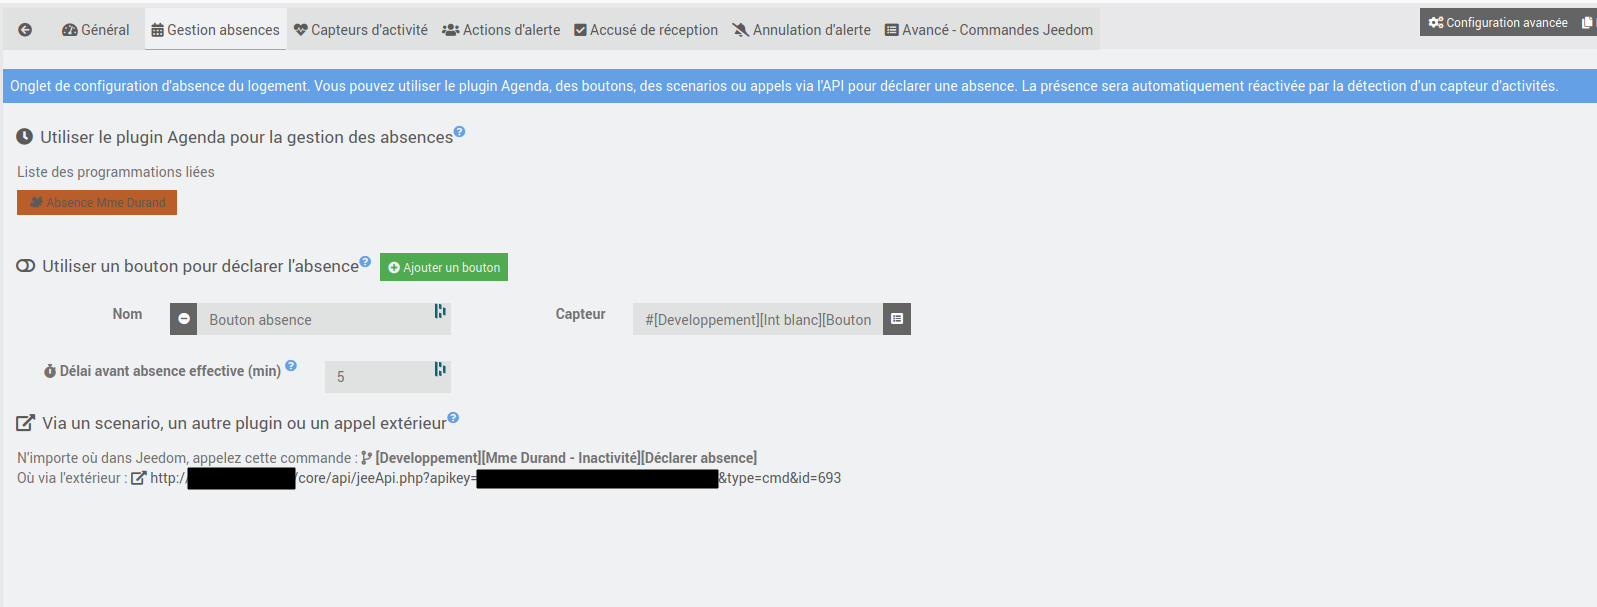
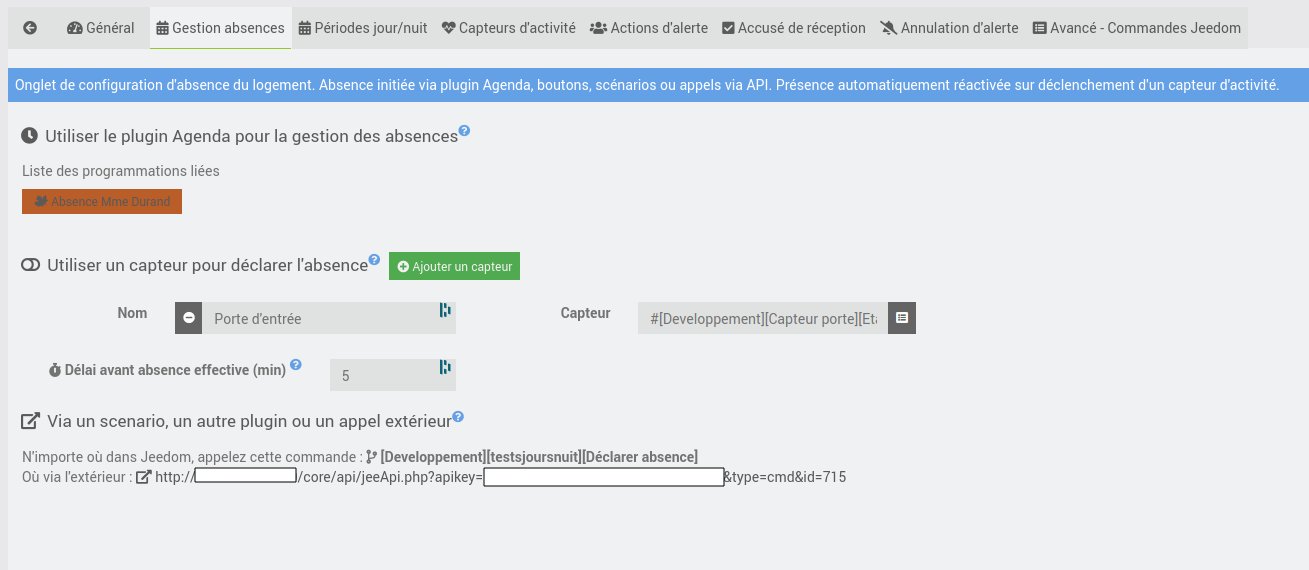
relecture, debug et update doc

diff --git a/desktop/js/seniorcareinactivity.js b/desktop/js/seniorcareinactivity.js
@@ -45,16 +45,14 @@ $("body").off('click','.bt_removeAction').on('click','.bt_removeAction',function
 });
 
 // permet d'afficher la liste des cmd Jeedom pour choisir sa commande de type "info" (pas les actions donc)
-// TODO ce morceau de code est un copier/coller du plugin thermostat, a voir s'il n'y a pas des trucs inutiles là-dedans
 $("body").off('click', '.listCmdInfoWindow').on('click', '.listCmdInfoWindow',function () {
   var el = $(this).closest('.form-group').find('.expressionAttr[data-l1key=cmd]');
-  jeedom.cmd.getSelectModal({cmd: {type: 'info', subtype: 'binary'}}, function (result) {
+  jeedom.cmd.getSelectModal({cmd: {type: 'info', subtype: 'binary'}}, function (result) { // pourquoi subtype binary ? (affiche bien tout...)
     el.value(result.human);
   });
 });
 
-// affiche les cmd jeedom de type action
-// TODO ce morceau de code est un copier/coller du plugin thermostat, a voir s'il n'y a pas des trucs inutiles là-dedans
+// permet d'afficher la liste des cmd Jeedom pour choisir sa commande de type "action"
 $("body").off('click','.listCmdAction').on('click','.listCmdAction', function () {
   var type = $(this).attr('data-type');
   var el = $(this).closest('.' + type).find('.expressionAttr[data-l1key=cmd]');
@@ -80,7 +78,7 @@ $("body").undelegate(".listAction", 'click').delegate(".listAction", 'click', fu
   });
 });
 
-// TODO ce morceau de code est un copier/coller du plugin thermostat, a voir s'il n'y a pas des trucs inutiles là-edans
+// TODO ce morceau de code est un copier/coller du plugin thermostat : je vois pas à quoi il sert (tout semble ok sans...) TODO
 $('body').off('focusout','.cmdAction.expressionAttr[data-l1key=cmd]').on('focusout','.cmdAction.expressionAttr[data-l1key=cmd]',function (event) {
   var type = $(this).attr('data-type');
   var expression = $(this).closest('.' + type).getValues('.expressionAttr');

diff --git a/core/class/seniorcareinactivity.class.php b/core/class/seniorcareinactivity.class.php
@@ -35,7 +35,7 @@ Toutes les minutes (cron jeedom) => on évalue si on est present et si les timer
 Les infos en cache (effacées ni lors de la sauvegarde, ni au reboot, ni update jeedom, mais mal lues au 1er cron après reboot...) :
 
 * $eqLogic->getCache('presence')); => savoir si la personne est présente ou absente. Sera a nouveau déclarée présente au 1ere capteur d'activité déclenché
-* $eqLogic->getCache('sensor_' . $_option['event_id']) => la valeur précédente de chaque capteur d'activité, pour ne déclencher que sur un changement d'état et non une répétition. Donc au reboot on sait plus, on déclenche : OK
+* $eqLogic->getCache('sensor_' . $_option['event_id']) => la valeur précédente de chaque capteur d'activité, pour ne déclencher que sur un changement d'état et non une répétition.
 * $eqLogic->setCache('nextLifeSignAlertTimestamp', time() + $lifeSignDetectionDelay); => le timestamp auquel il faut déclencher l'alerte
 * $eqLogic->getCache('alertLifeSignState'); => l'état actuel de l'alerte (déjà déclenchée ou non)
 * $eqLogic->setCache('execAction_'.$action['action_label'], 1); => l'état d'execution de chacune des actions d'alertes ayant un label (celles sans label sont mémorisées aussi mais s'écrasent entre elles et elles ne sont jamais lues, donc on s'en fout), pour conditionner l'exécution des actions d'AR et d'annulation
@@ -56,8 +56,8 @@ class seniorcareinactivity extends eqLogic {
 
       $seniorcareinactivity = seniorcareinactivity::byId($_options['eqLogic_id']); // on prend l'eqLogic du cron qui nous a appelé
 
-      log::add('seniorcareinactivity', 'info', $seniorcareinactivity->getHumanName() . ' - ABSENCE (par activation d\' un capteur AVEC timer)');
       $seniorcareinactivity->setCache('presence', 0); //on declare l'absence dans le cache. C'est le cron1 de jeedom qui gere le reste
+      log::add('seniorcareinactivity', 'info', $seniorcareinactivity->getHumanName() . ' - ABSENCE (par activation d\' un capteur AVEC timer)');
       log::add('seniorcareinactivity', 'debug', $seniorcareinactivity->getHumanName() . ' - cache *presence* : ' . $seniorcareinactivity->getCache('presence'));
 
       if ($seniorcareinactivity->getCache('alertLifeSignState')){ // si on était en phase d'alerte, on lance les actions d'annulation
@@ -73,7 +73,6 @@ class seniorcareinactivity extends eqLogic {
       log::add('seniorcareinactivity', 'info', $seniorcareinactivity->getHumanName() . ' - Exécution (différée) de l\'action d\'alerte : ' . $_options['action']['cmd'] . ' - Label : ' . $_options['action']['action_label']);
     }
 
-
     public static function sensorAbsence($_option) { // fct appelée par le listener des boutons d'absence, n'importe quel bouton arrive ici
 
       $seniorcareinactivity = seniorcareinactivity::byId($_option['seniorcareinactivity_id']); // on prend l'eqLogic du trigger qui nous a appelé
@@ -87,30 +86,30 @@ class seniorcareinactivity extends eqLogic {
         $seniorcareinactivity->setCache('presence', 0); //on declare dés maintenant l'absence dans le cache. Elle sera repetée par le cron qu'on met en place ci-dessous. Permet d'éviter de lancer une alerte entre le moment où on a lancé le bouton d'absence et l'absence effective (ne devrait pas arriver vu qu'on bouge de toute facon, mais bon...)
 
         $cron = cron::byClassAndFunction('seniorcareinactivity', 'lifeSignAbsenceDelayed', array('eqLogic_id' => intval($seniorcareinactivity->getId()))); // cherche le cron qui correspond exactement à "ce plugin, cette fonction et cette personne (on ne veut)
-        // lors d'une sauvegarde ou suppression de l'eqLogic, si des crons sont existants, ils seront supprimés
+        // lors de la suppression de l'eqLogic, si un cron est existant, il sera supprimé
 
-        //TODO : si on reappui sur le bouton, ca decalle pas le cron... comportement voulu ou il faudrait le remove et re-set ?
-
-        if (!is_object($cron)) { // pas de cron trouvé, on le cree
-
-            $cron = new cron();
-            $cron->setClass('seniorcareinactivity');
-            $cron->setFunction('lifeSignAbsenceDelayed');
-
-            $options['eqLogic_id'] = intval($seniorcareinactivity->getId());
-            $cron->setOption($options);
-
-            $cron->setEnable(1);
-            $cron->setTimeout(5); //minutes
-
-            $delai = strtotime(date('Y-m-d H:i:s', strtotime('+'.$lifeSignAbsenceDelay.' min ' . date('Y-m-d H:i:s')))); // on lui dit de se déclencher dans 'lifeSignAbsenceDelay' min
-            $cron->setSchedule(cron::convertDateToCron($delai));
-
-            $cron->setOnce(1); //permet qu'il s'auto supprime une fois executé
-            $cron->save();
-
-            log::add('seniorcareinactivity', 'debug', 'Set CRON absence différée pour eqLogic: ' . $options['eqLogic_id']);
+        if (is_object($cron)) { // s'il existe, on le supprime et on le reset à la nouvelle heure. C'est pour gerer les appui multiples ou si on a plusieurs capteurs : on décale le CRON à chaque fois pour que seul le dernier soit pris en compte
+          $cron->remove();
         }
+
+        $cron = new cron();
+        $cron->setClass('seniorcareinactivity');
+        $cron->setFunction('lifeSignAbsenceDelayed');
+
+        $options['eqLogic_id'] = intval($seniorcareinactivity->getId());
+        $cron->setOption($options);
+
+        $cron->setEnable(1);
+        $cron->setTimeout(5); //minutes
+
+        $delai = strtotime(date('Y-m-d H:i:s', strtotime('+'.$lifeSignAbsenceDelay.' min ' . date('Y-m-d H:i:s')))); // on lui dit de se déclencher dans 'lifeSignAbsenceDelay' min
+        $cron->setSchedule(cron::convertDateToCron($delai));
+
+        $cron->setOnce(1); //permet qu'il s'auto supprime une fois executé
+        $cron->save();
+
+        log::add('seniorcareinactivity', 'debug', 'Set CRON absence différée pour eqLogic: ' . $options['eqLogic_id']);
+
       } else { // immédiat
 
         log::add('seniorcareinactivity', 'info', $seniorcareinactivity->getHumanName() . ' - ABSENCE (par activation d\' un capteur SANS timer)');
@@ -138,7 +137,7 @@ class seniorcareinactivity extends eqLogic {
 
           if ($seniorcareinactivity->getCache('sensor_' . $_option['event_id']) != $_option['value']){ // si notre valeur a changé, donc a prendre en compte
 
-            log::add('seniorcareinactivity', 'debug', $seniorcareinactivity->getHumanName() . ' - Détection d\'un capteur d\'ACTIVITÉ, commande : ' . $sensor['cmd'] . ', nom : ' . $sensor['name'] . ', timer état haut jour : ' . $sensor['life_sign_timer_high_day'] . 'min, timer état bas jour : ' . $sensor['life_sign_timer_low_day'] . 'min, timer état haut nuit : ' . $sensor['life_sign_timer_high_night'] . 'min, timer état bas nuit : ' . $sensor['life_sign_timer_low_night'] . 'min, valeur : ' . $_option['value']);
+            log::add('seniorcareinactivity', 'debug', $seniorcareinactivity->getHumanName() . ' - Détection d\'un capteur d\'ACTIVITÉ, commande : ' . $sensor['cmd'] . ', nom : ' . $sensor['name'] . ', timer état haut jour : ' . $sensor['life_sign_timer_high_day'] . 'min, timer état bas jour : ' . $sensor['life_sign_timer_low_day'] . 'min, timer état haut nuit : ' . $sensor['life_sign_timer_high_night'] . 'min, timer état bas nuit : ' . $sensor['life_sign_timer_low_night'] . 'min, nouvel état capteur : ' . $_option['value']);
 
             if(!$seniorcareinactivity->getCache('presence')) { // on log uniquement si la presence est nouvelle
               log::add('seniorcareinactivity', 'info', $seniorcareinactivity->getHumanName() . ' - PRESENCE (par activation d\' un capteur d\'activité)');
@@ -152,7 +151,7 @@ class seniorcareinactivity extends eqLogic {
 
             if(is_numeric($lifeSignDetectionDelay) && $lifeSignDetectionDelay > 0){ // si on a un timer bien defini et > 0 min, le trigger est donc valable, on le prend en compte (sinon : on fait rien)
 
-              log::add('seniorcareinactivity', 'info', $seniorcareinactivity->getHumanName() . ' - Détection d\'un capteur d\'ACTIVITÉ, commande : ' . $sensor['cmd'] . ', nom : ' . $sensor['name'] . ', valeur timer à utiliser : ' . $lifeSignDetectionDelay/60 . 'min, valeur : ' . $_option['value']);
+              log::add('seniorcareinactivity', 'info', $seniorcareinactivity->getHumanName() . ' - Détection d\'un capteur d\'ACTIVITÉ, commande : ' . $sensor['cmd'] . ', nom : ' . $sensor['name'] . ', valeur timer à utiliser : ' . $lifeSignDetectionDelay/60 . 'min, nouvel état capteur : ' . $_option['value']);
 
               $seniorcareinactivity->setCache('presence', 1); //on declare la personne présente
               $seniorcareinactivity->setCache('nextLifeSignAlertTimestamp', time() + $lifeSignDetectionDelay); // on met en cache le timestamp auquel il faudra déclencher l'alerte. C'est le cron qui regardera toutes les min si on est hors delais
@@ -240,7 +239,7 @@ class seniorcareinactivity extends eqLogic {
 
     /*     * *********************Méthodes d'instance************************* */
 
-    public function execAlerteActions($action) { // appelée par le cron (celui de jeedom toutes les min) si besoin
+    public function execAlerteActions($action) { // appelée par le cron (celui de jeedom toutes les min), si besoin
 
       foreach ($this->getConfiguration('action_alert_life_sign') as $action) { // pour toutes les actions définies
 
@@ -392,7 +391,7 @@ class seniorcareinactivity extends eqLogic {
 
     }
 
-    public function cleanAllCron($displayWarningMessage = false) { // en fait c'est pas tous, mais tous les cron des ACTIONS différées. Le cron pour l'absence différé n'est pas annulé ici
+    public function cleanAllCron($displayWarningMessage = false) { // en fait c'est pas tous, mais tous les cron des ACTIONS différées. Le cron pour l'absence différé n'est pas annulé ici, Il n'est annulé que dans la fonction preRemove (suppression de l'eqLogic)
 
       log::add('seniorcareinactivity', 'debug', 'Fct cleanAllCron pour : ' . $this->getName());
 
@@ -676,7 +675,7 @@ class seniorcareinactivity extends eqLogic {
               throw new Exception(__('Le champs Nom pour les capteurs d\'activité ne peut être vide',__FILE__));
             }
 
-            if ($sensor['cmd'] == '') { // TODO on pourrait aussi ici vérifier que notre commande existe pour pas avoir de problemes apres...
+            if ($sensor['cmd'] == '') { // tests réalisés avec une cmd qui n'existe pas ('verrtgtr'), aucune erreur particuliere ni aucun log systeme, donc pas besoin de vérifier que c'est une cmd correcte et existante
               throw new Exception(__('Le champs Capteur d\'activité ne peut être vide',__FILE__));
             }
           }

diff --git a/docs/fr_FR/index.md b/docs/fr_FR/index.md
@@ -6,11 +6,12 @@ Ce plugin fait parti d'un ensemble de plugins pour Jeedom permettant l'aide au m
 La demande initiale vient de ce sujet sur le forum : [Développer un logiciel d’Analyse comportementale](https://community.jeedom.com/t/developper-un-logiciel-danalyse-comportementale/19111).
 
 Ce plugin permet la détection d’inactivité, ses principales fonctionnalités sont les suivantes :
-* Gestion d'une quantité illimitée de capteurs d'activité avec un délai individuel
+* Gestion d'une quantité illimitée de capteurs d'activité avec pour chacun 4 délais possible selon la valeur du capteur et la période jour/nuit en cours
 * Gestion d'actions d'alertes séquentielles
 * Gestion Accusé de Réception de l'alerte et liste d'actions associées
 * Gestion annulation de l'alerte avec liste d'actions associées
 * Gestion absence de la personne via le plugin Agenda ou des capteurs ou des appels externes
+* Gestion jour/nuit via le plugin Agenda ou autres appels externes
 
 Les capteurs d'activité peuvent être de n'importe quel type : interrupteur mural, détecteur de mouvement, détecteur de porte/fenêtre, ...
 
@@ -23,7 +24,7 @@ Si vous souhaitez participer au projet, n’hésitez pas à le faire savoir ici 
 Avertissement
 ==========
 
-Ce plugin a été conçu pour apporter une aide aux personnes souhaitant rester chez elles et à leurs aidants.
+Ce plugin a été conçu pour apporter une aide aux personnes âgées ou dépendante et à leurs aidants.
 Nous ne pouvons toutefois pas garantir son bon fonctionnement ni qu'un dysfonctionnement de l’équipement domotique n'arrive au mauvais moment.
 Merci de l'utiliser en tant que tel et de ne pas prendre de risque pour la santé de ceux que nous cherchons à aider !
 Ce plugin est gratuit et open source, il est fourni sans garanti de bon fonctionnement.
@@ -41,9 +42,10 @@ Principe de fonctionnement
 Le principe est le suivant :
 * Le logement de la personne âgée est équipé d'une multitude de capteurs. Au déclenchement de l'un d'entre eux, une temporisation correspondant à ce capteur est lancée. Ceci permet une temporisation plus courte dans la salle de bain que le salon par exemple. Chaque détection dans le logement relancera la temporisation. Si la temporisation arrive à échéance, le mécanisme d'alerte est enclenché.
 * Vous pouvez alors définir des actions à réaliser dans le logement (changement de couleur d'une lampe, alerte sonore, ...) ainsi que des actions vers un ou plusieurs aidants extérieurs. Ces actions peuvent être des notifications sur leur téléphone, un sms, un email, ... Ces différentes actions peuvent être à exécution immédiate ou différée. Celà permet de définir plusieurs personnes à prévenir successivement tant que l'alerte n'a pas été prise en compte par l'une d'entre elles. Il est aussi possible de définir la 1ère alerte dans le logement de la personne afin de lui laisser le temps de réagir (en activant n'importe lequel des capteurs du logement) avant que l'alerte ne soit lancée vers les aidants. Il est fortement conseillé de faire en sorte que cette alerte ne soit pas anxiogène pour la personne dépendante.
-* Les aidants peuvent accuser réception de l'alerte. Celà aura pour effet de déclencher des actions spécifiques (changer la couleur de la lampe dans le logement de la personne pour l'informer de la prise en compte par exemple). A la réception d'un AR, les actions d'alerte programmées n'ayant pas encore été exécutées sont annulées. Ceci permet de couper la chaîne d'alerte. Il est possible de définir des actions à ne réaliser que si une action d'alerte précédente a été exécutée, Ceci afin de prévenir les autres personnes ayant reçu l'alerte que quelqu'un en a déjà accusé réception par exemple.
+* Les aidants peuvent accuser réception de l'alerte. Cela aura pour effet de déclencher des actions spécifiques (changer la couleur de la lampe dans le logement de la personne pour l'informer de la prise en compte par exemple). A la réception d'un AR, les actions d'alerte programmées n'ayant pas encore été exécutées sont annulées. Ceci permet de couper la chaîne d'alerte. Il est possible de définir des actions à ne réaliser que si une action d'alerte précédente a été exécutée, Ceci afin de prévenir les autres personnes ayant reçu l'alerte que quelqu'un en a déjà accusé réception par exemple.
 * Une fois l’aidant sur place ou si la personne a réagit entre-temps, des actions d'annulation sont définies et la chaîne d'alerte est coupée. L'activation de n'importe quel capteur permet d'interrompre l'alerte.
 * Une gestion d'absence est disponible afin de ne pas déclencher d'alerte alors que la personne n'est pas présente dans son logement. Ces absences peuvent être déclarées de différentes façons (plugin agenda, scénarios ou plugins Jeedom, appel extérieur via l'API, des boutons dans le logement, ...).
+* Il est possible de définir jusqu'à 4 valeurs de temporisation par capteur, pour prendre en compte l'état du capteur (0 ou 1) ainsi que la période de la journée (jour/nuit)
 
 Configuration du plugin
 ========================
@@ -85,6 +87,7 @@ Dans le cas où une alerte était en cours, elle sera annulée (actions d'annula
    * Vous pouvez configurer directement dans le plugin une liste de bouton qui déclareront l'absence à l'échéance du délai configuré.
    * Ce délai permet de sortir du logement sans que les dernières actions soient détectées comme un retour. Notamment le capteur de fermeture de porte ou le capteur de mouvement qui reviendrait à son état initial
    * Le délai n'est pas pris en compte en minutes pleines, mais en début de minute. Par exemple si vous demandez un délai de 1min, le capteur est déclenché à 12h05m54s, alors l'absence sera déclarée en début de la minute à 12h06 (selon la charge de votre jeedom). Si le capteur est déclenché à 12h10m03, alors l'absence sera déclarée en début de min à 12h11. Ainsi un timer d'1min peut correspondre à un délai réel de quelques secondes, à maximum 60s.
+   * Si plusieurs capteurs sont déclarés ou s'ils sont déclenchés plusieurs fois, la temporisation est relancée à chaque fois.
 
 ### Avec n'importe quel autre plugin Jeedom, dont le plugin **Mode** par exemple ou avec un scenario
    * Définissez comme action la commande "Déclarer absence" pour appeler la fonction d'absence
@@ -94,19 +97,43 @@ Dans le cas où une alerte était en cours, elle sera annulée (actions d'annula
    * Vous pouvez tester le lien donné en cliquant directement dessus
    * "Réglages/Système/Configuration/Réseaux" doit être correctement renseigné pour que l'adresse affichée ici soit fonctionnelle.
 
+Onglet **Périodes jour/nuit**
+---
+
+La notion de "jour" ou "nuit" permet de définir des valeur de temporisation par capteur différente selon l'heure de la journée. Il est possible de définir plusieurs périodes "nuit" dans une journée, par exemple pendant la sieste.
+
+![](https://raw.githubusercontent.com/AgP42/seniorcareinactivity/master/docs/assets/images/OngletJourNuit.png)
+
+### Avec le plugin **agenda**
+   * **Note** : si vous ne disposez pas du plugin agenda sur votre Jeedom, cette zone ne s'affichera pas
+   * Vous devez configurer les périodes directement dans le plugin agenda qui doit lancer en action de début et de fin l'une des commande "Déclarer jour" ou "Déclarer nuit"
+   * Les actions jour/nuit programmées dans le plugin agenda seront affichées dans cet onglet avec un lien
+
+### Avec n'importe quel autre plugin Jeedom, dont le plugin **Mode** par exemple ou avec un scenario
+   * Définissez comme action les commandes "Déclarer jour" ou "Déclarer nuit"
+
+### Via un appel extérieur
+   * Utiliser les liens donnés pour appeler ces fonctions via un smartphone, IFTTT ou n'importe quel autre équipement.
+   * Vous pouvez tester le lien donné en cliquant directement dessus
+   * "Réglages/Système/Configuration/Réseaux" doit être correctement renseigné pour que l'adresse affichée ici soit fonctionnelle.
+
 Onglet **Capteur d'activité**
 ---
 
-Il s'agit ici de déclarer les capteurs concernant l’activité de la personne (ouverture, interrupteur, mouvement, …) et un délai associé pour chacun. Si aucun capteurs d'activité n'a été activé à l’échéance du délai, le plugin déclenchera l’étape suivante « Actions d'alertes ».
+Il s'agit ici de déclarer les capteurs concernant l’activité de la personne (ouverture, interrupteur, mouvement, …) et des délais associés pour chacun. Si aucun capteurs d'activité n'a été activé à l’échéance du délai, le plugin déclenchera l’étape suivante « Actions d'alertes ».
 
 ![](https://raw.githubusercontent.com/AgP42/seniorcareinactivity/dev/docs/assets/images/OngletCapteurs.png)
 
 Pour chaque capteur, saisir :
 * **Nom** : champs obligatoire
 * **Capteur** : champs obligatoire
-* **Délai avant alerte (min)** : il s'agit de la durée de la temporisation relancée par ce capteur. Cette temporisation sera relancée du même délai que l'état du capteur soit 0 ou 1. C'est-à-dire, pour un détecteur de mouvement par exemple, que le début ou la fin de détection relancera la temporisation de la même durée, idem pour l'ouverture et la fermeture d'une porte.
+* **Délais** : il s'agit des différentes durée possible de la temporisation relancée par ce capteur. Saisir 0 ou laisser le champs vide pour ne pas considérer l’événement dans cette situation.
+   * **Front montant** : lorsque ce capteur passe de l'état 0 à l'état 1. Pour un capteur de mouvement il s'agit généralement d'un début de détection. Pour un capteur de porte, il s'agit généralement de la fermeture de la porte.
+   * **Front descendant** : lorsque ce capteur passe de l'état 1 à l'état 0. Pour un capteur de mouvement il s'agit généralement d'une fin de détection, c'est à dire typiquement une action qu'il n'est pas utile de prendre en compte, vous pouvez alors définir 0 ou ne pas remplir le champs pour que ce cas soit ignoré. Pour un capteur de porte il s'agit généralement de l'ouverture de la porte.
+   * **Jour** : Correspond à la période "jour" déclarée dans l'onglet **Périodes jour/nuit**
+   * **Nuit** : Correspond à la période "nuit" déclarée dans l'onglet **Périodes jour/nuit**
 
-Pour vous aider à configurer vos capteurs, vous pouvez activer les logs en mode "Info" qui afficheront en temps réel les différents capteurs détectés par le plugin :
+Pour vous aider à configurer vos capteurs, vous pouvez activer les logs en mode "Info" qui afficheront en temps réel les différents capteurs détectés par le plugin et les délais applicables dans la situation actuelle (il faut des délais non nuls dans la configuration pour afficher les logs correspondant) :
 
 ![](https://raw.githubusercontent.com/AgP42/seniorcareinactivity/dev/docs/assets/images/logInfo.png)
 
@@ -114,13 +141,24 @@ Pour vous aider à configurer vos capteurs, vous pouvez activer les logs en mode
 > Plus le nombre de capteurs sera élevé, meilleure sera la performance.
 > Il est nécessaire de faire des essais de capteurs et des délais associés et de réaliser une période de test sans générer d'alerte pour la personne âgée.
 
-**A améliorer : le délai de détection d'inactivité selon jour ou nuit ?**
+###Exemple
 
+Dans la copie d'écran ci-dessus, 3 capteurs sont configurés, voici le comportement correspondant :
+* Capteur **Porte** :
+   * De jour, lors de l'ouverture ou la fermeture de la porte, la temporisation sera relancée de 10 minutes
+   * De nuit, ce capteur ne sera pas considéré, l'ouverture ou la fermeture de la porte ne relancera pas la temporisation
+* Capteur **Mouvement** :
+   * De jour ou de nuit, la temporisation sera relancée de 20 minutes lors de la détection d'un mouvement. Attention, selon votre capteur il est possible que le capteur reste à l'état de détection pendant une longue période, dans ce cas seul le début de la détection est pris en compte. Il est préférable de choisir un capteur revenant régulierement à l'état inactif pour détecter le prochain mouvement.
+   * De jour ou de nuit, lorsque le capteur repasse à l'état "pas de mouvement", il n'est pas considéré
+* Capteur **Lit** :
+   * De jour ou de nuit, lorsque le capteur détecte un coucher la temporisation est relancée pour 10h
+   * De jour, le levé relance la temporisation de 10 min
+   * De nuit, le levé relance la temporisation de 30 min
 
 Onglet **Actions d'alerte**
 ---
 
-Cet onglet permet de définir les actions à déclencher à l'échéance des délais de détection d'activité.
+Cet onglet permet de définir les actions à déclencher lors de la détection d'une inactivité (= à l'échéance de la temporisation du dernier capteur activé).
 
 ![](https://raw.githubusercontent.com/AgP42/seniorcareinactivity/master/docs/assets/images/OngletActions.png)
 
@@ -133,11 +171,14 @@ Cet onglet permet de définir les actions à déclencher à l'échéance des dé
 * **Action** : la commande Jeedom correspondant à l'action voulue. L'action peut être de n'importe quel type : une lampe du logement, un message vers les aidants, l'appel d'un scenario Jeedom, ...
 
 Remarques :
-* Dans le cas d'un redémarrage de Jeedom alors que des actions sont enregistrées, les actions seront réalisées dès le lancement de Jeedom (si l'heure de l'action est dépassée).
+* Dans le cas d'un redémarrage de Jeedom alors que des actions sont enregistrées, les actions seront réalisées :
+   * dès le lancement de Jeedom, si l'heure de l'action est dépassée
+   * à leur heure de programmation si l'heure n'est pas encore dépassée. (Les actions enregistrées ne sont pas perdues)
 * Lors de l'enregistrement ou de la suppression, si des actions étaient enregistrées, elles seront supprimées avec un message d'erreur donnant le nom de la personne
 * Si l'une de vos action est de type "message", vous pouvez utiliser les tags définis dans l'onglet **Général**
 * Pour prévenir la personne qu'une inactivité est détectée et lui laisser la possibilité de désactiver l'alerte avant qu'elle ne soit transmise aux aidants, définissez les actions vers la personne âgée avec un délai de 0 puis les actions vers l'extérieur après le délai voulu
 * Tout capteur activé pendant la période d'alerte annulera cette alerte et réinitialisera le mécanisme de surveillance
+* La déclaration de l' "absence" de la personne entraînera l'annulation des actions d'alertes en cours
 
 Onglet **Accusé de réception** (AR)
 ---
@@ -167,41 +208,61 @@ Onglet **Annulation d'alerte**
 ---
 
 Cet onglet permet de configurer les actions d'annulation d'alerte. Il s'agit ici de désactiver le mécanisme d'alerte lorsqu'un aidant arrive dans le logement ou si la personne déclenche elle-même un capteur d'activité.
-Tout capteur d'activité déclenché pendant une alerte en cours annulera l'alerte et lancera les actions définies dans cet onglet.
+
+> Tout capteur d'activité déclenché pendant une alerte en cours annulera l'alerte et lancera les actions définies dans cet onglet.
+
+> La déclaration de l' "absence" de la personne pendant une alerte en cours annulera l'alerte et lancera les actions définies dans cet onglet.
+
+> Lors de l'annulation, toutes les actions d'alertes "futures" sont annulées.
 
 ![](https://raw.githubusercontent.com/AgP42/seniorcareinactivity/master/docs/assets/images/OngletAnnulation.png)
 
 * Définir les actions qui seront réalisées pour les annulations d'alerte. Le fonctionnement des labels est identique aux actions de l'onglet **Accusé de réception**.
 
-Si l'une de vos action est de type "message", vous pouvez utiliser les tags configurés dans l'onglet "Général".
-Lors de l'annulation, toutes les actions d'alertes "futures" sont annulées.
+Si l'une de vos action est de type "message", vous pouvez utiliser les tags définis dans l'onglet **Général**
 
 Onglet **Avancé - Commandes Jeedom**
 ---
 
-Vous pouvez configurer ici les commandes utilisées par ce plugin. Vous pouvez notamment définir la visibilité du bouton d'accusé de réception sur le dashboard Jeedom (pour tests notamment) ainsi que le bouton de déclaration d'absence de la personne.
-Les autres commandes correspondent aux différents capteurs.
+Vous pouvez configurer ici les commandes utilisées par ce plugin. Vous pouvez notamment définir la visibilité du bouton d'accusé de réception sur le dashboard Jeedom (pour tests notamment) ainsi que les boutons de déclaration d'absence de la personne ou de passage jour/nuit.
 
+Les autres commandes correspondent aux différents capteurs.
+Les capteurs sont historisés par défaut, vous pouvez choisir de ne pas les historiser sans impact sur le comportement du plugin (permet de limiter l'usage de la base de donnée).
 
 Panneau desktop
 ================
 
 To Do - Il permettra de suivre les différents capteurs et visualiser les alertes.
 
+=> Il a finalement été décidé de ne pas développer de panel, les fonctions Jeedom de visualisation d'historique, timeline et vues étant *a priori* suffisantes.
+
 Remarques sur le comportement du plugin
 ======
 
-Comportement au démarrage et après redémarrage Jeedom
+Lors de la création et initialisation du mécanisme
 ---
-* Après création et première sauvegarde, le déclenchement de l'un des capteur d'activité initialise le mécanisme. En cas de non-déclenchement de l'un de ces capteurs d'activité dans cette minute, les actions d'alerte vont se lancer.
-* Après un redémarrage de Jeedom, le système aura perdu l'information de la date du dernier capteur d'activité, si des alarmes ont déjà été envoyées ainsi que l'information d'absence de la personne. Les actions vont donc se déclencher. En cas de redémarrage de Jeedom, vous devrez penser à activer un des capteurs d'activité dans la première minute.
+
+* Pour initialiser le plugin, vous devez au moins 1 fois :
+   * Activer chaque capteur (et vérifier sa bonne prise en compte dans les logs "info", ce qui est uniquement visible dans une des conditions où il a un timer valide défini)
+   * Déclencher une alerte, laisser toutes les actions s'exécuter puis annuler l'alerte (= déclencher un capteur)
+
+*Pourquoi ? Pour les curieux, voilà le détail : les informations suivantes sont stockées dans le cache de jeedom, il est recommandé de les initialiser lors de la 1ère installation (le cache de Jeedom n'est perdu ni lors d'une sauvegarde, ni lors d'un redémarrage, ni lors d'une mise à jour du core ou du plugin. Il n'est perdu que lorsque vous décidez de le vider manuellement ou lors de la réinstallation totale de votre jeedom) :
+   * jour => état jour par défaut si cette valeur n'est pas initialisée.
+   * presence/absence => le déclenchement de n'importe quel capteur (avec une temporisation >0) initialisera la présence
+   * l'état courant de chaque capteur d'activité (pour ne déclencher que sur un changement d'état et non une répétition) => il est donc recommandé d'activer au moins 1 fois chaque capteur dans le logement. Si ça n'est pas fait, le 1er état sera nouveau et donc ça devrait fonctionner quand même.
+   * le timestamp auquel il faudra déclencher la prochaine alerte => le déclenchement de n'importe quel capteur (avec une temporisation >0) initialisera ce timestamp. S'il n'est pas initialisé dans la 1ere minute après la création de l'équipement, les actions d'alerte vont se lancer (il suffit alors de les annuler avec le déclenchement d'un capteur).
+   * l'état actuel de l'alerte (déjà déclenchée ou non) => le déclenchement de n'importe quel capteur (avec une temporisation >0) initialisera cette valeur à "pas d'alerte en cours"
+   * l'état d'exécution de chacune des actions d'alertes ayant un label (celles sans label sont mémorisées aussi mais s'écrasent entre elles et elles ne sont jamais lues, donc sans impact fonctionnel), pour conditionner l'exécution des actions d'AR et d'annulation. => laisser toutes les actions d'alerte déclencher au moins 1 fois puis les annuler*
+
+
+Comportement après redémarrage Jeedom
+---
+* Après un redémarrage de Jeedom, aucune information ne sera (ne devrait être...) perdue, mais il peut y avoir un délai supplémentaire d'1 min avant le déclenchement des alertes
 
 Infos capteurs
 ---
-* Pour les capteurs de "détections d'inactivité", c'est le changement de valeur du capteur qui est détecté et relancera la temporisation, la valeur en elle-même n'est pas prise en compte !
-   * Pour un capteur de mouvement, cela signifie que la détection d'un changement d'état quel qu'il soit, passage du capteur de actif à inactif ou de inactif à actif, déclenchera la temporisation
-   * Pour un capteur de porte, l'ouverture et la fermeture relanceront la temporisation
-* L'ensemble des capteurs définis dans le plugin doivent posséder un nom unique. Le changement de nom d'un capteur revient à le supprimer et à en créer un nouveau, la totalité de l'historique associé à ce capteur sera donc perdue
+* L'ensemble des capteurs définis dans le plugin doivent posséder un nom unique. Le changement de nom d'un capteur revient à le supprimer et à en créer un nouveau, l'historique associé à ce capteur sera donc perdu
+* Si vous associez un capteur dont les valeurs ne sont pas binaires (0 ou 1), il ne sera jamais pris en compte. Vous devez alors passer par un virtuel pour générer une information binaire selon vos besoins.
 
 Exemples d'usage et configuration associée
 ========================

diff --git a/docs/fr_FR/changelog.md b/docs/fr_FR/changelog.md
@@ -31,7 +31,11 @@
 * Tests et debugs
 * Mise à jour documentation
 
-0.0.5 - 1er avril
+0.0.5 - 2 avril
 ---
 
 * Ajout timer selon état du capteur (0->1 ou 1->0) et période jour/nuit
+* Ajout des commandes pour déclarer état "jour" ou "nuit" et liaison avec le plugin agenda
+* (debug) La réception de l'état "absence" appelle les actions d'annulation d'alerte => uniquement si l'alerte était active
+* Tests, relecture et debugs
+* Mise à jour documentation
